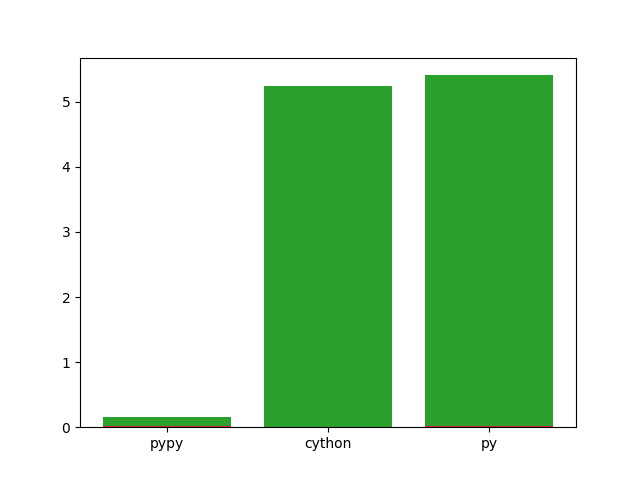
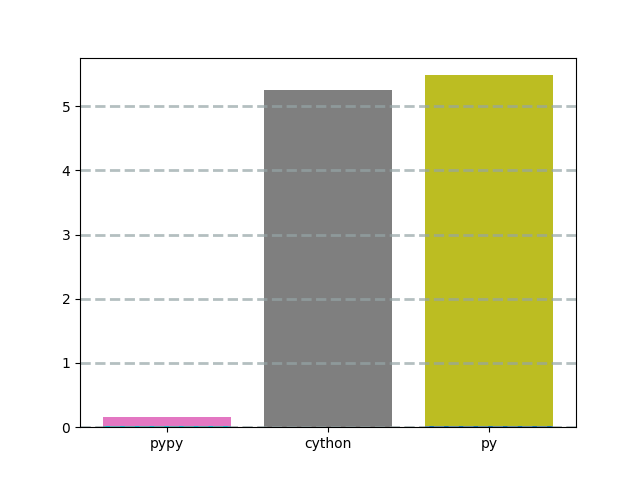
added integral test

diff --git a/perf/pypy_tests.py b/perf/pypy_tests.py
@@ -11,7 +11,7 @@ TEST_RANGE = config.CONFIG["test range"]
 
 def run():
     data = log.read_file()
-    tests = [factorial_test(), matrix_multi_test(), adding_numbers_test(), dict_inset_test(), dict_remove_test()]
+    tests = [factorial_test(), matrix_multi_test(), adding_numbers_test(), integral_test()]
     for tst in tests:
         if tst.name in data.keys():
             data[tst.name]["pypy"] = tst.avg
@@ -22,37 +22,37 @@ def run():
     log.write_file(data)
 
 def factorial_test():
-    results_py = []
+    results = []
     for _ in tqdm(range(TEST_RANGE)):
         with Timer() as t:
             pypy.factorial(500)
-        results_py.append(t.secs)
+        results.append(t.secs)
 
-    return util.singelResult("factorial", results_py)
+    return util.singelResult("factorial", results)
 
 def matrix_multi_test():
     mat_size = 9
     range_ = 10
 
-    results_py = []
+    results = []
     for _ in tqdm(range(TEST_RANGE)):
         a = util.random_matrix(mat_size, range_=range_)
         b = util.random_matrix(mat_size, range_=range_)
         with Timer() as t:
             pypy.matrix_multiply(mat_size, a, b)
-        results_py.append(t.secs)
+        results.append(t.secs)
 
-    return util.singelResult("matrix multiply", results_py)
+    return util.singelResult("matrix multiply", results)
 
 
 def adding_numbers_test():
-    results_py = []
+    results = []
     for _ in tqdm(range(10)):
         with Timer() as t:
             pypy.adding_numbers(10000)
-        results_py.append(t.secs)
+        results.append(t.secs)
 
-    return util.singelResult("adding numbers", results_py)
+    return util.singelResult("adding numbers", results)
 
 
 def dict_inset_test():
@@ -75,6 +75,14 @@ def dict_remove_test():
 
     return util.singelResult("dictionary remove", results)
 
+
+def integral_test():
+    results = []
+    for _ in tqdm(range(10)):
+        with Timer() as t:
+            pypy.integrate_f(0.0, 10000, TEST_RANGE)
+        results.append(t.secs)
+    return util.singelResult("integral", results)
 
 
 if __name__ == '__main__':

diff --git a/perf/py_tests.py b/perf/py_tests.py
@@ -11,7 +11,7 @@ TEST_RANGE = config.CONFIG["test range"]
 
 def run():
     data = log.read_file()
-    tests = [factorial_test(), matrix_multi_test(), adding_numbers_test(), dict_inset_test(), dict_remove_test()]
+    tests = [factorial_test(), matrix_multi_test(), adding_numbers_test(), integral_test()]
     for tst in tests:
         if tst.name in data.keys():
             data[tst.name]["py"] = tst.avg
@@ -72,6 +72,16 @@ def dict_remove_test():
             pypy.dict_remove(dic=dic_)
         results.append(t.secs)
     return util.singelResult("dictionary remove", results)
+
+def integral_test():
+    results = []
+    for _ in tqdm(range(10)):
+        with Timer() as t:
+            pypy.integrate_f(0.0, 10000, TEST_RANGE)
+        results.append(t.secs)
+    return util.singelResult("integral", results)
+
+
 
 
 

diff --git a/perf/cy_test.py b/perf/cy_test.py
@@ -11,7 +11,7 @@ TEST_RANGE = config.CONFIG["test range"]
 
 def run():
     data = log.read_file()
-    tests = [factorial_test(), matrix_multi_test(), adding_numbers_test()]
+    tests = [factorial_test(), matrix_multi_test(), adding_numbers_test(), integral_test()]
     for tst in tests:
         if tst.name in data.keys():
             data[tst.name]["cython"] = tst.avg
@@ -55,6 +55,16 @@ def adding_numbers_test():
         results.append(t.secs)
 
     return util.singelResult("adding numbers", results)
+
+
+def integral_test():
+    results = []
+    for _ in tqdm(range(10)):
+        with Timer() as t:
+            cy.integrate_f(0.0, 10000, TEST_RANGE)
+        results.append(t.secs)
+    return util.singelResult("integral", results)
+
 
 
 if __name__ == '__main__':

diff --git a/graph/__main__.py b/graph/__main__.py
@@ -12,6 +12,9 @@ def read_file(file="./results.json"):
 
 
 data = read_file()
-for tst, D in data.items():
-    plt.bar(*zip(*D.items()))
+for tst, col in data.items():
+    for typ, res in col.items():
+        print(f"{tst}, {typ}, {res}")
+        plt.bar(typ, float(res))
+    plt.grid(color='#95a5a6', linestyle='--', linewidth=2, axis='y', alpha=0.7)
     plt.savefig(f"./graph/img/{tst}.png")

diff --git a/perf/pypy.py b/perf/pypy.py
@@ -42,3 +42,15 @@ def dict_remove(dic):
     for i in keys:
         del dic[i]
     return dic
+
+
+def f(x):
+    return x ** 2 - x
+
+
+def integrate_f(a, b, N):
+    s = 0
+    dx = (b - a) / N
+    for i in range(N):
+        s += f(a + i * dx)
+    return s * dx
